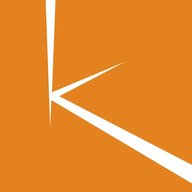
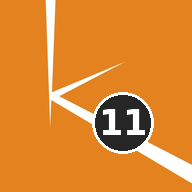
RK11: identificador nuevo e icono con el 11 para distinguirla de RK14

Changed region(s): [[0.4688, 0.4688, 0.8125, 0.8125]]

diff --git a/sw.js b/sw.js
@@ -1,5 +1,5 @@
 /* Parte diario RK11 - service worker: cachea la app, nunca toca los envios */
-const CACHE = 'rk11-v2';
+const CACHE = 'rk11-v3';
 const ASSETS = ['./', './index.html', './manifest.webmanifest', './icon-192.png', './icon-512.png', './icon-512-maskable.png'];
 
 self.addEventListener('install', e => {
